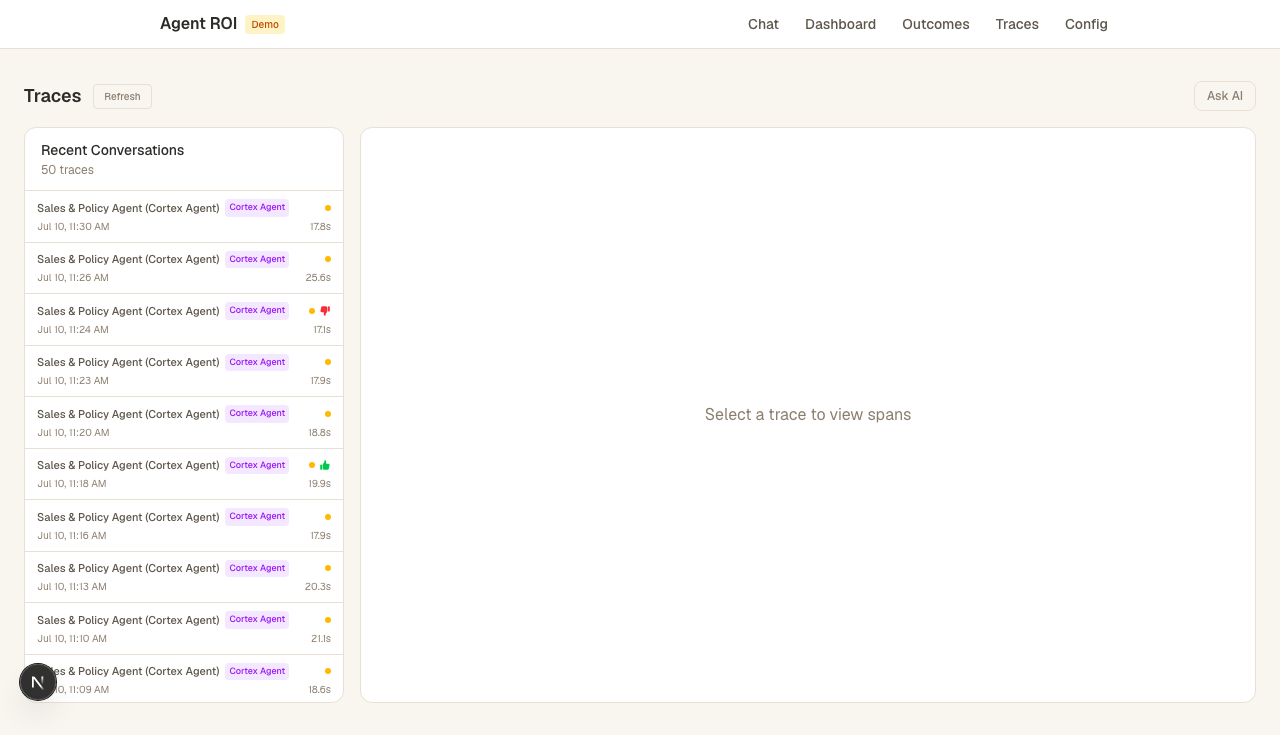
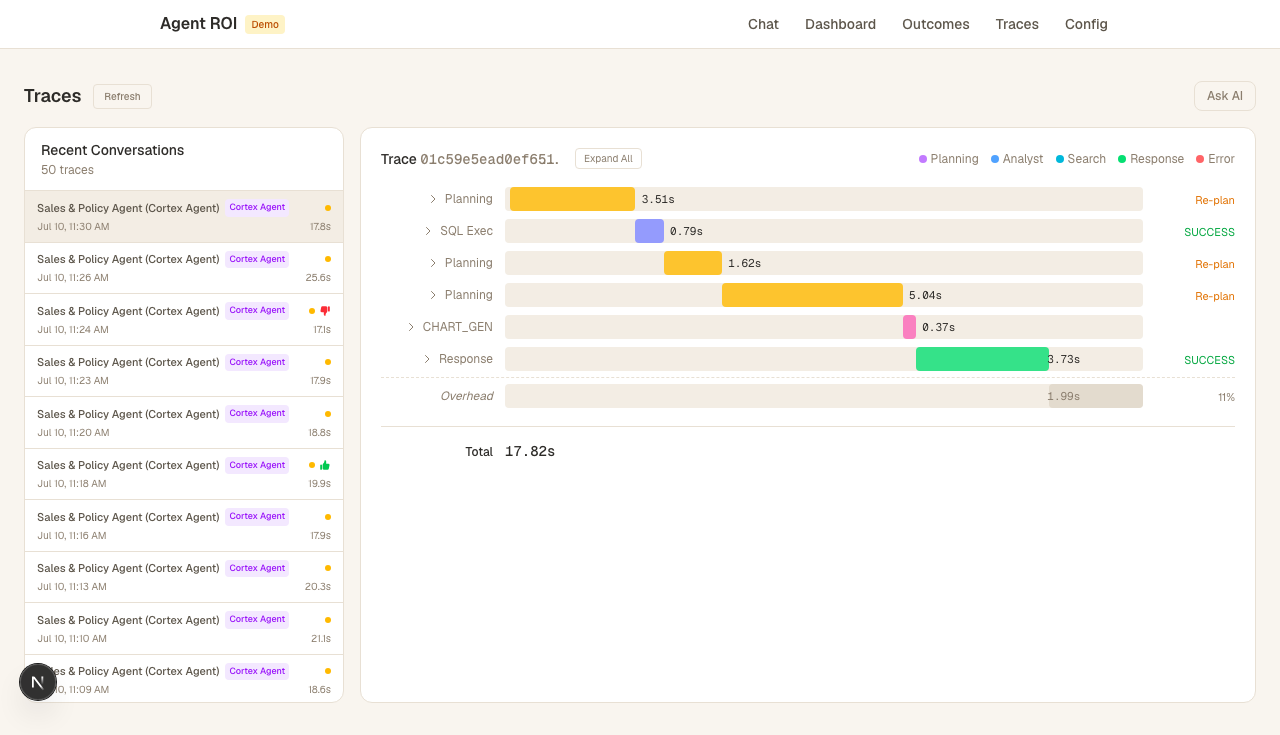
Auto-select first trace and add Expand All/Collapse All
- Traces page now defaults to showing the first trace on load
- Changed expandedSpan from single to Set (multiple spans expandable)
- Added Expand All / Collapse All toggle button
- Updated screenshot with active trace visible

.... Generated with [Cortex Code](https://docs.snowflake.com/en/user-guide/cortex-code/cortex-code)

diff --git a/app/src/app/traces/page.tsx b/app/src/app/traces/page.tsx
@@ -88,7 +88,7 @@ function TracesPageInner() {
   const [spans, setSpans] = useState<SpanRow[]>([]);
   const [loading, setLoading] = useState(true);
   const [spansLoading, setSpansLoading] = useState(false);
-  const [expandedSpan, setExpandedSpan] = useState<string | null>(null);
+  const [expandedSpans, setExpandedSpans] = useState<Set<string>>(new Set());
   const [queryStats, setQueryStats] = useState<Record<string, Record<string, string>>>({});
   const [queryStatsLoading, setQueryStatsLoading] = useState<Set<string>>(new Set());
   const [feedback, setFeedback] = useState<Array<{ positive: boolean | string; categories: string | string[]; message: string; timestamp: string }>>([]);
@@ -248,6 +248,7 @@ function TracesPageInner() {
   }, [agents]);
 
   // Auto-select trace from URL params (e.g. linked from Outcomes page)
+  // or default to the first trace
   useEffect(() => {
     if (loading || traces.length === 0) return;
     const traceId = searchParams.get('trace_id');
@@ -258,10 +259,13 @@ function TracesPageInner() {
         setSelectedTrace(traceId);
         setSelectedAgentSlug(match.agent_slug);
       } else if (agentSlug) {
-        // Trace exists but not in top 50 — still select it
         setSelectedTrace(traceId);
         setSelectedAgentSlug(agentSlug);
       }
+    } else if (!selectedTrace && !traceId) {
+      // Default to first trace
+      setSelectedTrace(traces[0].trace_id);
+      setSelectedAgentSlug(traces[0].agent_slug);
     }
   }, [loading, traces, searchParams, selectedTrace]);
 
@@ -394,7 +398,7 @@ function TracesPageInner() {
       const traceRow = traces.find((t) => t.trace_id === selectedTrace);
       const slug = traceRow?.agent_slug || '';
       fetchSpans(selectedTrace, slug); 
-      setExpandedSpan(null); 
+      setExpandedSpans(new Set()); 
       setFeedback([]); 
       fetchFeedback(selectedTrace, slug); 
     } 
@@ -460,15 +464,15 @@ function TracesPageInner() {
     } catch { /* silent */ }
   }, [agentDb, agentSchema, agentName, agentType]); // eslint-disable-line react-hooks/exhaustive-deps
 
-  // When a SQL span is expanded, fetch its query stats async
+  // When spans are expanded, fetch query stats for any SQL spans
   useEffect(() => {
-    if (expandedSpan) {
-      const span = spans.find((s) => s.span_id === expandedSpan);
+    expandedSpans.forEach((spanId) => {
+      const span = spans.find((s) => s.span_id === spanId);
       if (span?.query_id) {
         fetchQueryStats(span.query_id);
       }
-    }
-  }, [expandedSpan, spans, fetchQueryStats]);
+    });
+  }, [expandedSpans, spans, fetchQueryStats]);
 
   const getSpanColor = (span: SpanRow) => {
     if (span.has_error === 'true') return 'bg-red-400';
@@ -606,9 +610,24 @@ function TracesPageInner() {
           ) : (
             <div className="space-y-4">
               <div className="flex items-center justify-between">
-                <h2 className="text-sm font-medium text-[var(--foreground)]">
-                  Trace <span className="font-mono text-[var(--text-muted)]">{selectedTrace.slice(0, 16)}...</span>
-                </h2>
+                <div className="flex items-center gap-3">
+                  <h2 className="text-sm font-medium text-[var(--foreground)]">
+                    Trace <span className="font-mono text-[var(--text-muted)]">{selectedTrace.slice(0, 16)}...</span>
+                  </h2>
+                  <button
+                    onClick={() => {
+                      const expandableIds = spans.filter(s => hasDetails(s)).map(s => s.span_id);
+                      if (expandedSpans.size === expandableIds.length) {
+                        setExpandedSpans(new Set());
+                      } else {
+                        setExpandedSpans(new Set(expandableIds));
+                      }
+                    }}
+                    className="text-[10px] px-2 py-0.5 rounded border border-[var(--border)] text-[var(--text-muted)] hover:text-[var(--foreground)] hover:border-[var(--foreground)]"
+                  >
+                    {expandedSpans.size > 0 ? 'Collapse All' : 'Expand All'}
+                  </button>
+                </div>
                 <div className="flex gap-3 text-xs text-[var(--text-muted)]">
                   <span className="flex items-center gap-1"><span className="w-2 h-2 rounded bg-purple-400" /> Planning</span>
                   <span className="flex items-center gap-1"><span className="w-2 h-2 rounded bg-blue-400" /> Analyst</span>
@@ -643,14 +662,19 @@ function TracesPageInner() {
                     const leftPct = ((spanStart - traceStart) / totalDuration) * 100;
                     const widthPct = Math.max(2, ((spanEnd - spanStart) / totalDuration) * 100);
 
-                    const isExpanded = expandedSpan === span.span_id;
+                    const isExpanded = expandedSpans.has(span.span_id);
                     const clickable = hasDetails(span);
 
                   return (
                     <div key={`${span.span_id}-${idx}`}>
                       <div
                         className={`flex items-center gap-3 py-0.5 ${clickable ? 'cursor-pointer' : ''}`}
-                        onClick={() => clickable && setExpandedSpan(isExpanded ? null : span.span_id)}
+                        onClick={() => clickable && setExpandedSpans(prev => {
+                          const next = new Set(prev);
+                          if (next.has(span.span_id)) next.delete(span.span_id);
+                          else next.add(span.span_id);
+                          return next;
+                        })}
                       >
                         <div className="w-28 flex items-center gap-1.5 justify-end">
                           {clickable && (